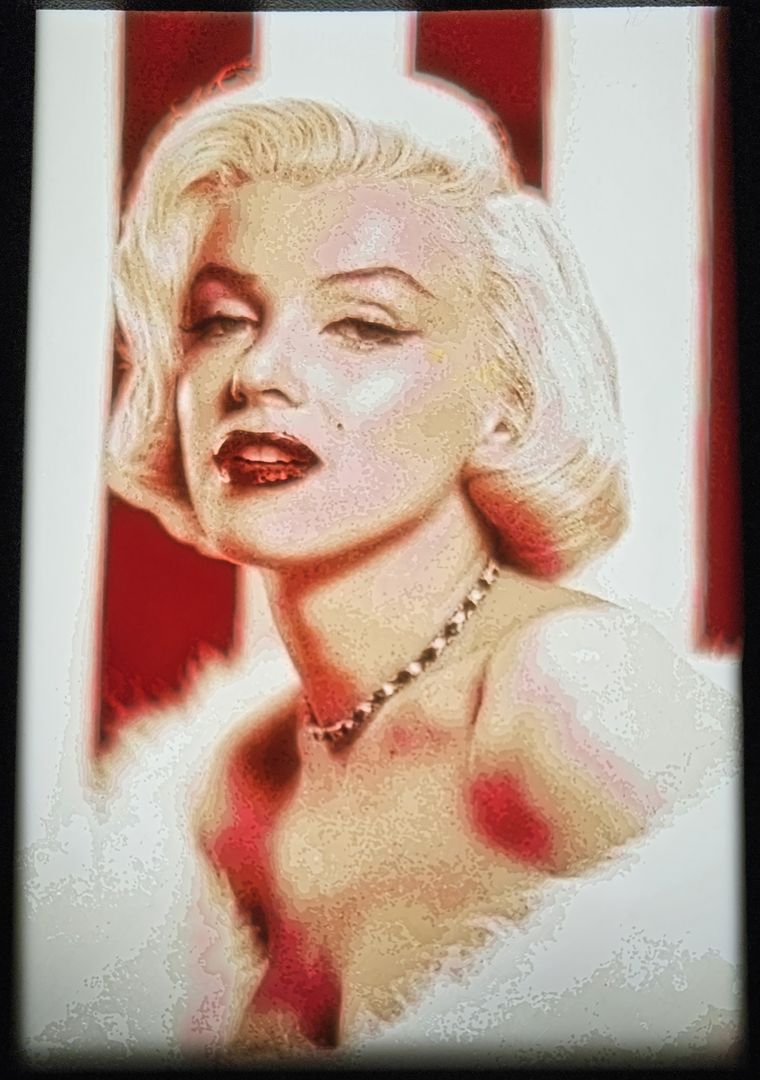
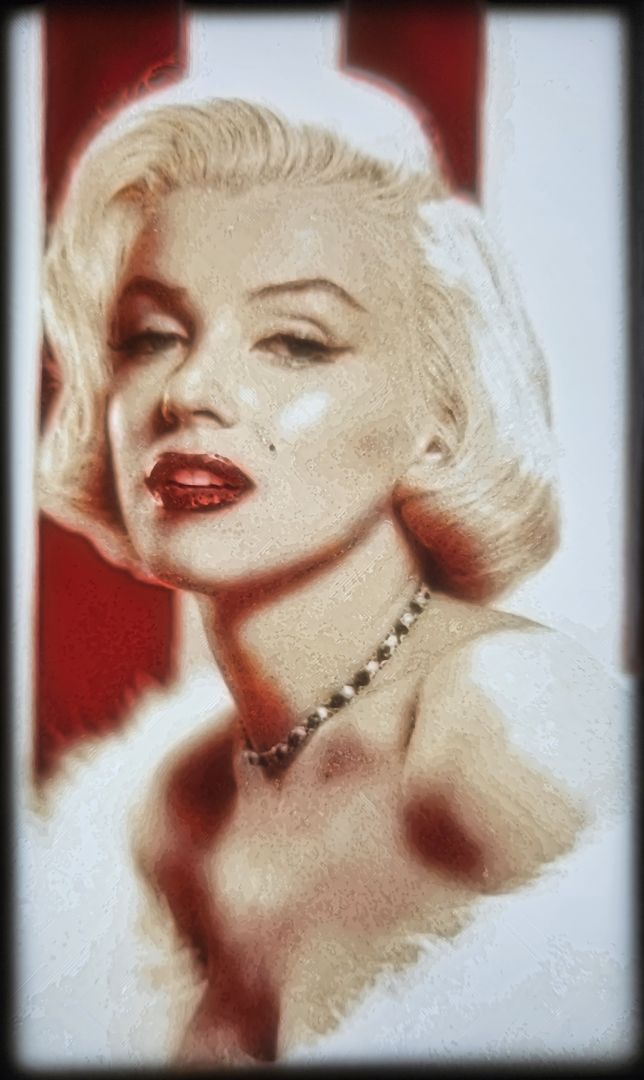
Improved pixel color distance calculation (use of CIELab method).

diff --git a/src/main/java/ggo/pixestl/util/ColorUtil.java b/src/main/java/ggo/pixestl/util/ColorUtil.java
@@ -1,44 +1,68 @@
 package ggo.pixestl.util;
 
+import ggo.pixestl.generator.GenInstruction;
+
 import java.awt.Color;
 import java.awt.image.BufferedImage;
 import java.util.ArrayList;
 import java.util.List;
 
 public class ColorUtil {
-	
-	public static Color findClosestColor(Color targetColor, List<Color> colors)
+
+    public static Color findClosestColor(Color targetColor, List<Color> colors, GenInstruction.ColorDistanceComputation colorDistanceComputation)
+    {
+        return findClosestColorInternal(targetColor,colors,colorDistanceComputation);
+    }
+
+    private static Color findClosestColorInternal(Color targetColor, List<Color> colors, GenInstruction.ColorDistanceComputation colorDistanceComputation)
+    {
+        double minDistance = Double.MAX_VALUE;
+        Color closestColor = colors.get(0);
+
+        for (Color color : colors)
+        {
+            double distance;
+            switch (colorDistanceComputation)
+            {
+                case RGB:
+                    distance = colorDistanceRGB(targetColor, color);
+                    break;
+                case CIELab:
+                default :
+                    distance = colorDistanceCIELab(targetColor, color);
+            }
+            if (distance < minDistance)
+            {
+                minDistance = distance;
+                closestColor = color;
+            }
+        }
+        return closestColor;
+    }
+
+    private static int colorDistanceRGB(Color color1, Color color2)
+    {
+        int r1 = color1.getRed();
+        int g1 = color1.getGreen();
+        int b1 = color1.getBlue();
+
+        int r2 = color2.getRed();
+        int g2 = color2.getGreen();
+        int b2 = color2.getBlue();
+
+        int dr = r1 - r2;
+        int dg = g1 - g2;
+        int db = b1 - b2;
+
+        return dr * dr + dg * dg + db * db;
+    }
+
+	private static double colorDistanceCIELab(Color color1, Color color2)
 	{
-		int minDistance = Integer.MAX_VALUE;
-		Color closestColor = colors.get(0);
+        double[] lab1 = rgbToLab(color1.getRed(), color1.getGreen(), color1.getBlue());
+        double[] lab2 = rgbToLab(color2.getRed(), color2.getGreen(), color2.getBlue());
 
-		for (Color color : colors)
-		{
-			int distance = colorDistance(targetColor, color);
-			if (distance < minDistance)
-			{
-				minDistance = distance;
-				closestColor = color;
-			}
-		}
-		return closestColor;
-	}
-
-	private static int colorDistance(Color color1, Color color2)
-	{
-		int r1 = color1.getRed();
-		int g1 = color1.getGreen();
-		int b1 = color1.getBlue();
-
-		int r2 = color2.getRed();
-		int g2 = color2.getGreen();
-		int b2 = color2.getBlue();
-
-		int dr = r1 - r2;
-		int dg = g1 - g2;
-		int db = b1 - b2;
-
-		return dr * dr + dg * dg + db * db;
+        return deltaE(lab1[0], lab1[1], lab1[2], lab2[0], lab2[1], lab2[2]);
 	}
 	
 	
@@ -160,9 +184,14 @@ public class ColorUtil {
     	double b = color.getBlue() / 255f;
 
     	double k = 1 - Math.max(Math.max(r, g), b);
-    	double c = (1 - r - k) / (1 - k);
-    	double m = (1 - g - k) / (1 - k);
-    	double y = (1 - b - k) / (1 - k);
+        double c = 0;
+        double m = 0;
+        double y = 0;
+        if (k < 1.0) {
+            c = (1 - r - k) / (1 - k);
+            m = (1 - g - k) / (1 - k);
+            y = (1 - b - k) / (1 - k);
+        }
 
         return new double[]{c, m, y, k};
     }
@@ -174,7 +203,55 @@ public class ColorUtil {
 
         return String.format("#%02X%02X%02X", red, green, blue);
     }
-    
-    
+
+    public static double[] rgbToLab(int r, int g, int b) {
+        double[] xyz = rgbToXyz(r, g, b);
+        return xyzToLab(xyz[0], xyz[1], xyz[2]);
+    }
+
+    public static double[] rgbToXyz(int r, int g, int b) {
+        double rr = pivotRgbToXyz((double) r / 255);
+        double gg = pivotRgbToXyz((double) g / 255);
+        double bb = pivotRgbToXyz((double) b / 255);
+
+        // Convert using D65 illuminant
+        double x = rr * 0.4124564 + gg * 0.3575761 + bb * 0.1804375;
+        double y = rr * 0.2126729 + gg * 0.7151522 + bb * 0.0721750;
+        double z = rr * 0.0193339 + gg * 0.1191920 + bb * 0.9503041;
+
+        return new double[]{x * 100, y * 100, z * 100};
+    }
+
+    public static double[] xyzToLab(double x, double y, double z) {
+        x /=  95.047;
+        y /= 100.000;
+        z /= 108.883;
+
+        if (x > 0) x = pivotXyzToLab(x);
+        if (y > 0) y = pivotXyzToLab(y);
+        if (z > 0) z = pivotXyzToLab(z);
+
+        double l = Math.max(0, 116 * y - 16);
+        double a = (x - y) * 500;
+        double b = (y - z) * 200;
+
+        return new double[]{l, a, b};
+    }
+
+    private static double pivotRgbToXyz(double n) {
+        return (n > 0.04045) ? Math.pow((n + 0.055) / 1.055, 2.4) : n / 12.92;
+    }
+
+    private static double pivotXyzToLab(double n) {
+        return (n > Math.pow(6.0/29.0, 3)) ? Math.pow(n, 1.0/3.0) : (n / (3 * Math.pow(6.0/29.0, 2))) + 4.0/29.0;
+    }
+
+    public static double deltaE(double l1, double a1, double b1, double l2, double a2, double b2) {
+        double dL = l2 - l1;
+        double da = a2 - a1;
+        double db = b2 - b1;
+
+        return Math.sqrt(dL * dL + da * da + db * db);
+    }
 
 }

diff --git a/src/main/java/ggo/pixestl/arg/CommandArgsParser.java b/src/main/java/ggo/pixestl/arg/CommandArgsParser.java
@@ -33,6 +33,7 @@ public class CommandArgsParser extends GenInstruction {
 		optArgList.add(new Option("o", "destZipPath", true, "Destination ZIP file path.\nDefault: <-image>.zip"));
 		optArgList.add(new Option("c", "colorNumber", true, "Maximum number of color number.\nDefault: no limits"));
 		optArgList.add(new Option("F", "pixelCreationMethod", true, "Method for pixel creation [ADDITIVE,FULL].\nDefault: "+GenInstruction.ADD));
+		optArgList.add(new Option("d", "colorDistanceComputation", true, "Method for pixel color distance computation [RGB,CIELab].\nDefault: "+GenInstruction.CIELab));
 		optArgList.add(new Option("f", "plateThickness", true, "Thickness of the plate (mm).\nDefault: "+GenInstruction.DEFAULT_VALUE_PLATE_THICKNESS));
 		optArgList.add(new Option("l", "colorLayerNumber", true, "Number of color pixel layers.\nDefault: "+GenInstruction.DEFAULT_VALUE_COLOR_LAYER_NUMBER));
 		optArgList.add(new Option("b", "colorPixelLayerThickness", true, "Thickness of each color pixel layer (mm).\nDefault: "+GenInstruction.DEFAULT_VALUE_COLOR_PIXEL_LAYER_THICKNESS));
@@ -133,6 +134,14 @@ public class CommandArgsParser extends GenInstruction {
 		if (ADD.equals(pixelCreationMethodString)) pixelCreationMethod=PixelCreationMethod.ADDITIVE;
 		else if (FULL.equals(pixelCreationMethodString)) pixelCreationMethod=PixelCreationMethod.FULL;
 		if (pixelCreationMethod == null) throw new IllegalArgumentException(pixelCreationMethodString+" don't match with "+ADD+" or "+FULL);
+	}
+
+	public void setColorDistanceComputationString(String colorDistanceComputationString)
+	{
+		colorDistanceComputation=null;
+		if (RGB.equals(colorDistanceComputationString)) colorDistanceComputation=ColorDistanceComputation.RGB;
+		else if (CIELab.equals(colorDistanceComputationString)) colorDistanceComputation=ColorDistanceComputation.CIELab;
+		if (colorDistanceComputation == null) throw new IllegalArgumentException(colorDistanceComputationString+" don't match with "+RGB+" or "+CIELab);
 	}
 	
 	public void setColorPixelWidthString(String colorPixelWidthString)

diff --git a/src/main/java/ggo/pixestl/generator/GenInstruction.java b/src/main/java/ggo/pixestl/generator/GenInstruction.java
@@ -7,9 +7,11 @@ public class GenInstruction
 	public enum PixelCreationMethod {ADDITIVE,FULL}
 	public static final String ADD = "ADDITIVE";
 	public static final String FULL = "FULL";
-	
-	
 
+
+	public enum ColorDistanceComputation {RGB,CIELab}
+	public static final String RGB = "RGB";
+	public static final String CIELab = "CIELab";
 	public static final double DEFAULT_VALUE_PLATE_THICKNESS=0.2;
 	public static final int DEFAULT_VALUE_COLOR_LAYER_NUMBER=5;
 	public static final double DEFAULT_VALUE_COLOR_PIXEL_LAYER_THICKNESS=0.1;
@@ -32,6 +34,8 @@ public class GenInstruction
 	protected int colorNumber;
 	
 	protected PixelCreationMethod pixelCreationMethod=PixelCreationMethod.ADDITIVE;
+
+	protected ColorDistanceComputation colorDistanceComputation = ColorDistanceComputation.CIELab;
 	
 	protected double destImageWidth=0; //mm
 	
@@ -84,6 +88,9 @@ public class GenInstruction
 	}
 	public PixelCreationMethod getPixelCreationMethod() {
 		return pixelCreationMethod;
+	}
+	public ColorDistanceComputation getColorDistanceComputation() {
+		return colorDistanceComputation;
 	}
 	public int getColorPixelLayerNumber() {
 		return colorPixelLayerNumber;

diff --git a/src/main/java/ggo/pixestl/palette/Palette.java b/src/main/java/ggo/pixestl/palette/Palette.java
@@ -156,7 +156,7 @@ public class Palette
 					continue;
 				}
 				Color pixelColor = new Color(image.getRGB(x, y));
-				Color closestColor = ColorUtil.findClosestColor(pixelColor, colors);
+				Color closestColor = ColorUtil.findClosestColor(pixelColor, colors,genInstruction.getColorDistanceComputation());
 				quantizedImage.setRGB(x, y, closestColor.getRGB());
 			}
 		}

diff --git a/README.md b/README.md
@@ -38,23 +38,23 @@ usage: PIXEstL
 
 ### Color lithophanes
 ``` 
-java -jar PIXEstL.jar -p palette-0.1mm.json -w 130 -i Cafe_Terrace_at_Night.jpg
+java -jar PIXEstL.jar -p palette-0.1mm.json -w 130 -d RGB -i Cafe_Terrace_at_Night.jpg
 ```
 <img src="attachment/Terrace_at_Night.jpg" width="500" alt="Terrace_at_Night"/>
 
 ``` 
-java -jar PIXEstL.jar -p filament-palette.json -w 150 -i mem.png
+java -jar PIXEstL.jar -p filament-palette.json -w 150 -d RGB -i mem.png
 ```
 <img src="attachment/memory_geisha.jpg" width="500" alt="memory_geisha"/>
 
 ```
-java -jar PIXEstL.jar -p filament-palette.json -w 150 -i thanos.jpg
+java -jar PIXEstL.jar -p filament-palette.json -w 150 -d RGB -i thanos.jpg
 ```
 <img src="attachment/thanos.jpg" width="500" alt="thanos"/>
 
 ### Color lithophane with small texture layer
 ``` 
-java -jar PIXEstL.jar -p filament-palette.json -w 130 -M 1.4 -i rainbow_infinity.png
+java -jar PIXEstL.jar -p filament-palette.json -w 130 -d RGB -M 1.4 -i rainbow_infinity.png
 ``` 
 <img src="attachment/infinity.jpg" width="500" alt="infinity"/>
 
@@ -66,19 +66,25 @@ java -jar PIXEstL.jar -p filament-palette.json -M 3 -w 150 -z false -i tsunami_H
 
 ### Lithophane of a face with underexposure and overexposure to light
 ``` 
-java -jar PIXEstL.jar -p filament-palette-0.10mm-custom.json -w 100 -i Marilyn.jpg
+java -jar PIXEstL.jar -p filament-palette-0.10mm.json -w 100 -i Marilyn.jpg
 ```
 <img src="attachment/marilyn.jpg" width="500" alt="marilyn.jpg"/>
 
+### Lithophane with the new default color distance computation (CIELab)
+``` 
+java -jar PIXEstL.jar -p filament-palette-0.10mm-custom.json -w 150 -M 1.5 -i Petals.jpg
+```
+<img src="attachment/petals.jpg" width="500" alt="petals.jpg"/>
+
 ### Lithophane from an image with transparency in the background
 ``` 
-java -jar PIXEstL.jar -p filament-palette-0.10mm-custom.json -w 400 -M 2 -i butterfly.png 
+java -jar PIXEstL.jar -p filament-palette-0.10mm-custom.json -w 400 -d RGB -M 2 -i butterfly.png 
 ```
 <img src="attachment/butterfly.jpg" width="500" alt="marilyn.jpg"/>
 
 ### Pixel Art image (with only color layers + FULL colors)
 ``` 
-java -jar PIXEstL.jar -p filament-palette-0.10mm.json -w 200 -c 8 -F FULL -Z false -cW 2 -l 2 -f 1 -i tsunami_Hokusai.jpg
+java -jar PIXEstL.jar -p filament-palette-0.10mm.json -w 200 -c 8 -F FULL -Z false -cW 2 -l 2 -f 1 -d RGB -i tsunami_Hokusai.jpg
 ```
 <img src="attachment/tsunami_hokusai_pixel.jpg" width="750" alt="tsunami_hokusai_pixel"/>
 
